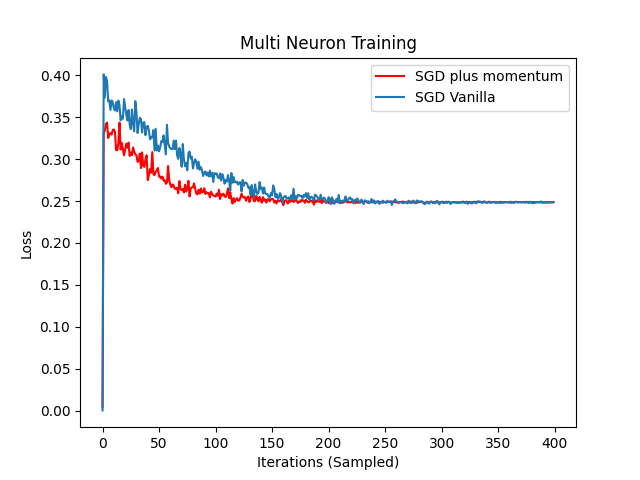
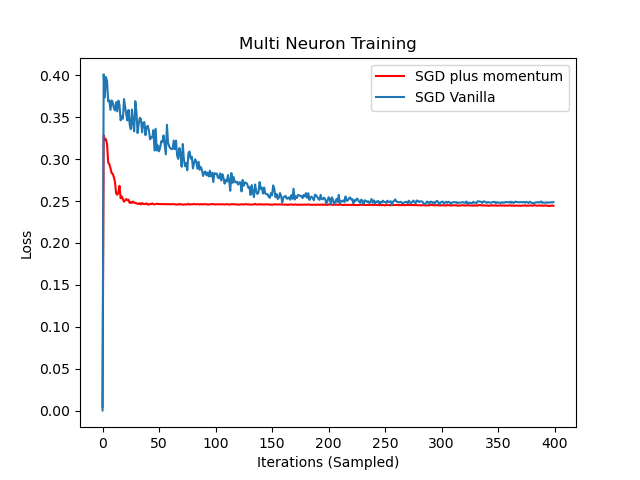
cleanup

diff --git a/hw/hw3/cgp1.0.8/multi_neuron_classifier_sgd_plus.py b/hw/hw3/cgp1.0.8/multi_neuron_classifier_sgd_plus.py
@@ -34,10 +34,6 @@ class cgpSuperCharged(ComputationalGraphPrimer):
         pred_err_backproped_at_layers = {i: [] for i in range(1, self.num_layers - 1)}
         pred_err_backproped_at_layers[self.num_layers - 1] = [y_error]
 
-        # preparing varibles
-        step_hist = list(np.zeros(len(self.learnable_params)))
-        bias_hist = 0
-
         for back_layer_index in reversed(range(1, self.num_layers)):
             input_vals = self.forw_prop_vals_at_layers[back_layer_index - 1]
             input_vals_avg = [sum(x) for x in zip(*input_vals)]
@@ -94,17 +90,17 @@ class cgpSuperCharged(ComputationalGraphPrimer):
                         * pred_err_backproped_at_layers[back_layer_index][j]
                     ) * deriv_sigmoid_avg[j]
 
-                    step = self.mu * step_hist[i] + self.learning_rate * g_tp1
+                    step = self.mu * self.step_hist[i] + self.learning_rate * g_tp1
                     self.vals_for_learnable_params[param] += step
 
                     # update step_hist
-                    step_hist[i] = step
+                    self.step_hist[i] = step
 
             ## Bias momentum step
-            bias_hist = self.mu * bias_hist + self.learning_rate * sum(
+            self.bias_hist = self.mu * self.bias_hist + self.learning_rate * sum(
                 pred_err_backproped_at_layers[back_layer_index]
             ) * sum(deriv_sigmoid_avg) / len(deriv_sigmoid_avg)
-            self.bias[back_layer_index - 1] += bias_hist
+            self.bias[back_layer_index - 1] += self.bias_hist
 
     def run_training_loop_multi_neuron_model(self, training_data):
         """
@@ -113,7 +109,7 @@ class cgpSuperCharged(ComputationalGraphPrimer):
         Modified by: Varun Aggarwal
 
         Modifications:
-        None
+        initializing step_hist and bias_hist
         """
 
         class DataLoader:
@@ -156,6 +152,10 @@ class cgpSuperCharged(ComputationalGraphPrimer):
         loss_running_record = []
         i = 0
         avg_loss_over_literations = 0.0
+
+        # preparing varibles
+        self.bias_hist = 0
+        self.step_hist = list(np.zeros(len(self.learnable_params)))
 
         for i in range(self.training_iterations):
             data = data_loader.getbatch()
@@ -245,3 +245,4 @@ plt.title("Multi Neuron Training")
 plt.xlabel("Iterations (Sampled)")
 plt.ylabel("Loss")
 plt.savefig("../output/multi_with_momentum.png")
+# plt.show()

diff --git a/hw/hw3/cgp1.0.8/one_neuron_classifier_sgd_plus.py b/hw/hw3/cgp1.0.8/one_neuron_classifier_sgd_plus.py
@@ -19,7 +19,7 @@ class cgpSuperCharged(ComputationalGraphPrimer):
     def __init__(self, mu=0.0, *args, **kwargs):
         super().__init__(*args, **kwargs)
         self.mu = mu
-    
+
     def backprop_and_update_params_one_neuron_model(
         self, y_error_avg, data_tuple_avg, deriv_sigmoid_avg
     ):
@@ -49,17 +49,18 @@ class cgpSuperCharged(ComputationalGraphPrimer):
                 * deriv_sigmoid_avg
             )
 
-            step = self.mu * step_hist[i] + self.learning_rate * g_tp1
+            step = self.mu * self.step_hist[i] + self.learning_rate * g_tp1
             self.vals_for_learnable_params[param] += step
 
             # update step_hist
-            step_hist[i] = step
+            self.step_hist[i] = step
 
         ## Bias momentum step
-        bias_hist = (
-            self.mu * bias_hist + self.learning_rate * y_error_avg * deriv_sigmoid_avg
+        self.bias_hist = (
+            self.mu * self.bias_hist
+            + self.learning_rate * y_error_avg * deriv_sigmoid_avg
         )
-        self.bias += bias_hist
+        self.bias += self.bias_hist
 
     def run_training_loop_one_neuron_model(self, training_data):
         """
@@ -68,7 +69,7 @@ class cgpSuperCharged(ComputationalGraphPrimer):
         Modified by: Varun Aggarwal
 
         Modifications:
-        None
+        initializing step_hist and bias_hist
         """
         self.vals_for_learnable_params = {
             param: random.uniform(0, 1) for param in self.learnable_params
@@ -121,6 +122,10 @@ class cgpSuperCharged(ComputationalGraphPrimer):
         i = 0
         avg_loss_over_literations = 0.0
 
+        # preparing varibles
+        self.bias_hist = 0
+        self.step_hist = list(np.zeros(len(self.learnable_params)))
+
         for i in range(self.training_iterations):
             data = data_loader.getbatch()
             data_tuples = data[0]
@@ -165,7 +170,7 @@ cgp = cgpSuperCharged(
     dataset_size=5000,
     learning_rate=1e-3,
     training_iterations=40000,
-    batch_size=8,
+    batch_size=16,
     display_loss_how_often=100,
     debug=True,
     mu=0.9,
@@ -179,7 +184,7 @@ cgp_original = ComputationalGraphPrimer(
     dataset_size=5000,
     learning_rate=1e-3,
     training_iterations=40000,
-    batch_size=8,
+    batch_size=16,
     display_loss_how_often=100,
     debug=True,
 )

diff --git a/hw/hw3/cgp1.0.8/ComputationalGraphPrimer/ComputationalGraphPrimer.py b/hw/hw3/cgp1.0.8/ComputationalGraphPrimer/ComputationalGraphPrimer.py
@@ -1182,9 +1182,9 @@ class ComputationalGraphPrimer(object):
             y_errors = list(map(operator.sub, class_labels, y_preds))
             y_error_avg = sum(y_errors) / float(len(class_labels))
             self.backprop_and_update_params_multi_neuron_model(y_error_avg, class_labels)
-        plt.figure()     
-        plt.plot(loss_running_record) 
-        plt.show()   
+# plt.figure()
+# plt.plot(loss_running_record)
+# plt.show()
         return loss_running_record
 
 
